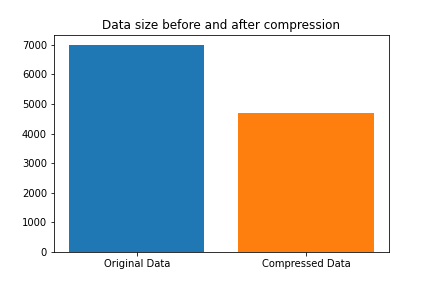
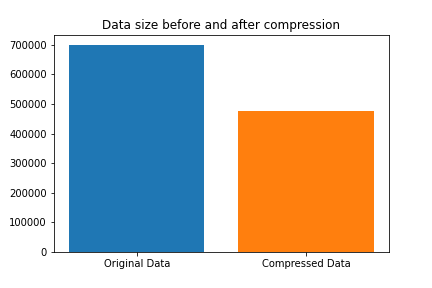
Made some changes

diff --git a/Python/JointCode.py b/Python/JointCode.py
@@ -14,14 +14,13 @@ from hamming import *
 
 # %%
 # huffman code
-
-sizeOfData = 1000
+sizeOfData = 50000
 symbols = list(string.ascii_uppercase)
 arr = np.random.choice(symbols, sizeOfData) # The code
 string = ""
 for i in arr:
     string += i
-print("Our code is ", string)
+#print("Our code is ", string)
 print("")
 
 freq = {}
@@ -74,6 +73,7 @@ plt.bar('Compressed Data', compressedData.size, align='center')
 plt.title('Data size before and after compression')
 plt.savefig('HuffmanCode_Comparision.png')
 plt.show()
+plt.close()
 
 # %%
 # hamming code
@@ -104,10 +104,11 @@ def transmit(transArr, SNR):
     mod = PSKModem(transArr.size)
     # Stimulate error in transmission by adding gaussian noise
     modArr = mod.modulate(transArr)
-    recieveArr = awgn(modArr, SNR)
+    recieveArr = awgn(modArr, SNR, rate=2)
     demodArr = mod.demodulate(recieveArr, 'hard')
     #calculating the BER
-    numErrs = np.sum(transArr != demodArr)
+    print(transArr.size, " and ", demodArr.size)
+    numErrs += np.sum(transArr != demodArr)
     BER = numErrs/demodArr.size
     #Plotting and Printing the results
     plt.semilogy(np.flip(np.arange(SNR)), np.linspace(0, BER, SNR), label = transArr.size)
@@ -129,7 +130,7 @@ def monteTransmit(EbNo, transArr):
         mod = PSKModem(transArr.size)
         # Stimulate error in transmission by adding gaussian noise
         modArr = mod.modulate(transArr)
-        recieveArr = awgn(modArr, SNR)
+        recieveArr = awgn(modArr, SNR, rate=2)
         demodArr = mod.demodulate(recieveArr, 'hard')
         #calculating the BER
         numErrs = np.sum(transArr != demodArr)
@@ -137,37 +138,40 @@ def monteTransmit(EbNo, transArr):
     plt.semilogy(EbNo, BERarr, label = transArr.size)
     print("The number of errors in our code is ", numErrs)
     print("Data Transmited is ", transArr)
-    print("Data Recieved is ", demodArr  )
+    print("Data Recieved is ", demodArr)
     print("The Bit error ratio is ", BERarr[i])
     print("")  
     return demodArr     
 
 #%%
 
-SNR = 20
+SNR = 10
 plt.xlabel('EbNo(dB)')
 plt.ylabel('BER')
 plt.title('BER vs SNR')
+plt.yscale('log')
 plt.grid(True)
 transmit(origData, SNR)
 recieveArr = transmit(arr, SNR)
 plt.legend()
 plt.savefig('BERSNR_Comparision.png')
 plt.show()
+plt.close()
 
-
-
-EbNo = np.arange(SNR)
+"""
+EbNo = np.arange(5)
 plt.xlabel('EbNo(dB)')
 plt.ylabel('BER')
 plt.title('BER vs SNR')
+plt.yscale('log')
 plt.grid(True)
 monteTransmit(EbNo, origData)
 monteTransmit(EbNo, arr)
 plt.legend()
 plt.savefig('BERSNR_Comparision2.png')
 plt.show()
-
+plt.close()
+"""
 # %%
 # printing out everything and finiding the error
 
